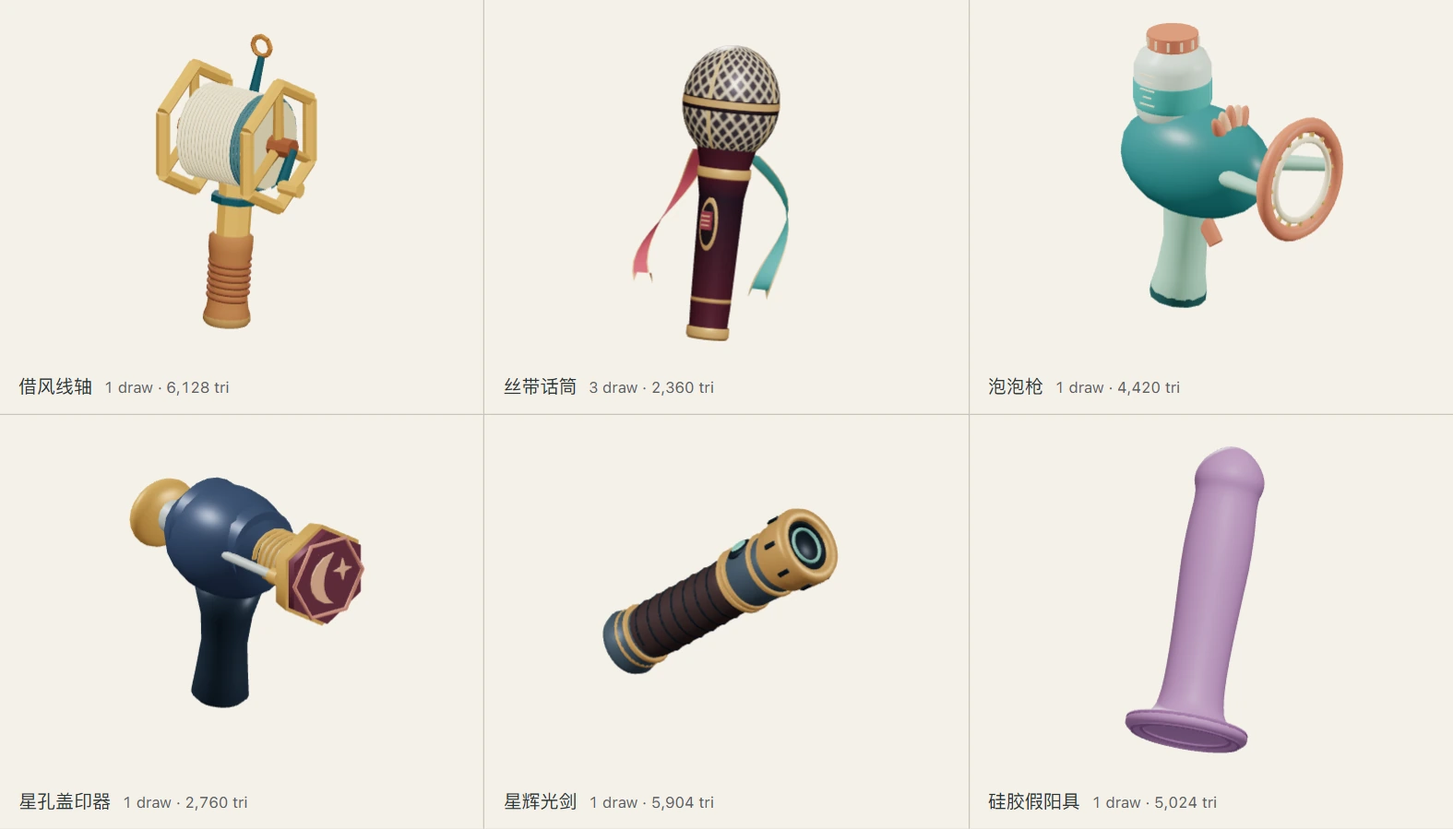
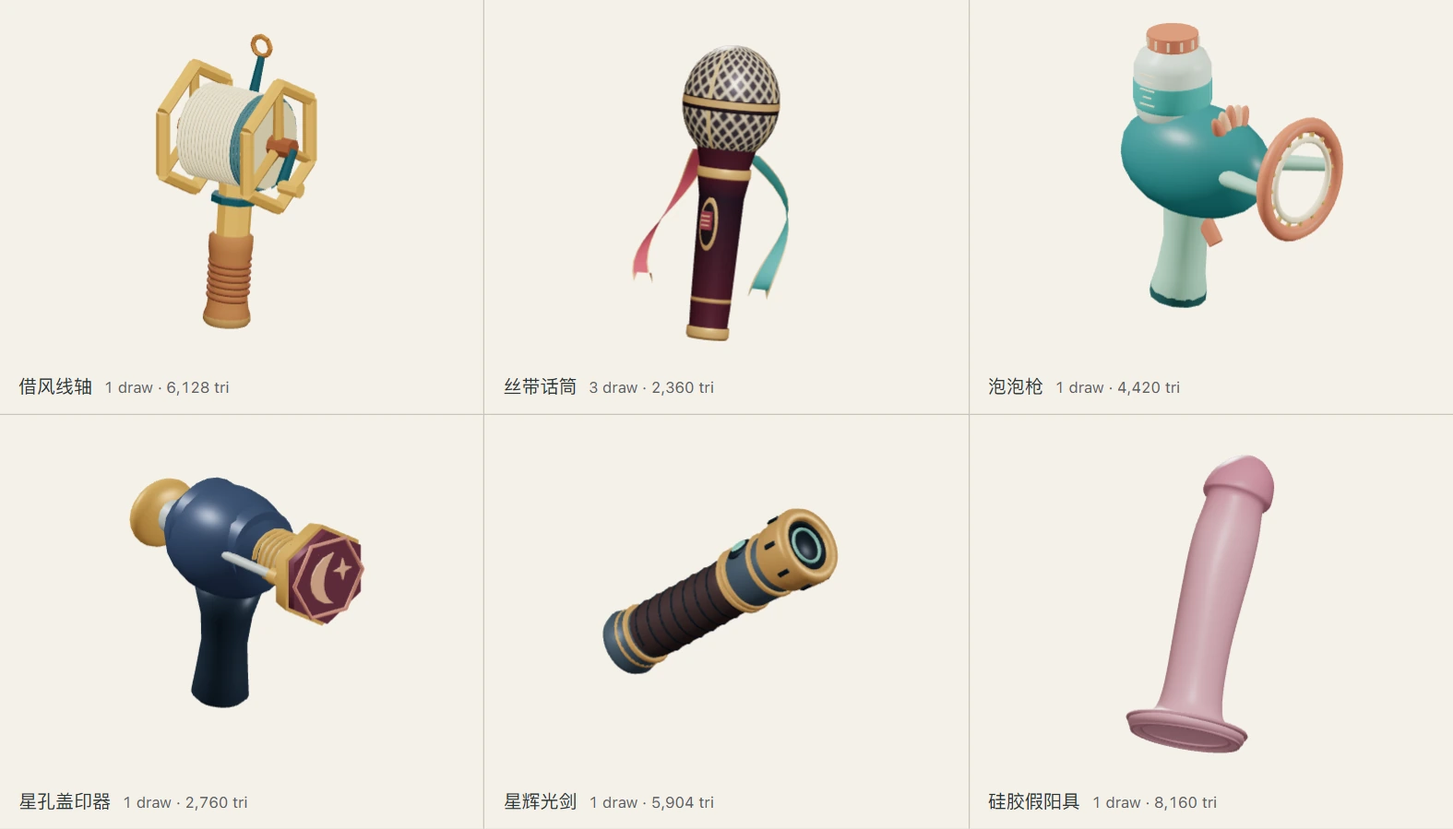
Make handheld effects portable, add a metered tip spray and stabilize the daylight sky

Changed region(s): [[0.8089, 0.5295, 0.9022, 0.7475], [0.7778, 0.8409, 0.8711, 0.9032]]

diff --git a/src/i18n/en.ts b/src/i18n/en.ts
@@ -12,14 +12,14 @@ export const en: Record<keyof ZhMessages, string> = {
   watchDetails:'Details',
   watchMenu:'Menu',watchArrange:'Arrange',watchExperiments:'Experiments',watchStart:'Choose a set, then place a character from your backpack.',watchRecall:'Press right B for controls. With hands, raise your left wrist or look down for Menu.',
   toyClubName:'Live House',toyStudioName:'Studio plinth',
-  toyDildo:'Silicone dildo',allSets:'All sets',guideDildoVr:'Hold the base to pose. No grip action needed.',guideDildoScreen:'Give it to a character and adjust the grip.',guideDildoEnd:'Stowing or changing sets returns it to the backpack.',
+  toyDildo:'Silicone dildo',allSets:'All sets',guideDildoVr:'Squeeze once for a short spray from the tip.',guideDildoScreen:'Give it to a character to pose. Spraying uses the VR grip.',guideDildoEnd:'Release and squeeze to pump again. Stowing clears the spray.',
   toyGuide:'How to use',toyCloseGuide:'Close guide',toyShelfRule:'Take or give any prop in any set.',toyShelfHome:'Active in: ',visitSaber:'To Astral Court',
   toyGuideEquip:'Trigger Left hand or Right hand in any set.',toyGuideGive:'Point at a character → Give prop → choose its hand.',toyGuideScreenGive:'Select a placed character, then choose its prop and wrist.',
   guideKiteVr:'In the meadow, squeeze the reel to change the wind.',guideKiteScreen:'Choose Left wind or Right wind in the meadow backpack.',guideKiteEnd:'The line follows the wrist. Stow the reel to end the flight.',
   guideEncoreVr:'Aim at each wing and squeeze the side grip once.',guideEncoreScreen:'In the club backpack, print each wing in turn.',guideEncoreEnd:'The first wing sets the pattern. Stowing the mic keeps the print.',
-  guideBubblesVr:'Hold grip for bubbles. Aim at a gate, release and squeeze.',guideBubblesScreen:'In the pool backpack, launch at the left or right gate.',guideBubblesEnd:'The boat starts at that gate. Stow the blower to end the trip.',
+  guideBubblesVr:'Hold grip to blow bubbles in any set.',guideBubblesScreen:'In the pool backpack, launch at the left or right gate.',guideBubblesEnd:'At the pool, aim at a gate and squeeze again to launch the boat.',
   guidePostVr:'Aim at three different stars. Release and squeeze at each.',guidePostScreen:'Stamping needs VR. On screen, give the punch to a character.',guidePostEnd:'Collect all three to reveal the card. The first sets its seal.',
-  guideSaberVr:'Squeeze to extend the blade. Release and squeeze to retract.',guideSaberScreen:'Give the saber to a character in Astral Court to light it.',guideSaberEnd:'In other sets the hilt is a posing prop; the blade stays off.',
+  guideSaberVr:'In any set, squeeze to extend. Squeeze again to retract.',guideSaberScreen:'Give the saber to a character in any set to light it.',guideSaberEnd:'Changing hands keeps the blade state; stowing retracts it.',
   actorPalmCloth:'Character palms can lift skirts (experimental; requires physics)',
   hudClinic:'Women’s hospital',clinicHall:'Waiting hall',clinicExam:'Gynecology exam room',clinicSurgery:'Operating room',clinicRestroom:'Women’s restroom',clinicEducation:'Patient education wall',
   campusWindow:'Arbor from the windows',campusHall:'School breezeway',campusGoLawn:'Cross to the meadow',campusSchool:'Look back at school',campusArbor:'Wisteria path',campusGoClass:'Cross back to class',

diff --git a/src/i18n/zh.ts b/src/i18n/zh.ts
@@ -10,14 +10,14 @@ export const zh = {
   watchDetails:'详情',
   watchMenu:'菜单',watchArrange:'摆位置',watchExperiments:'实验功能',watchStart:'先选场景，再从背包放角色。',watchRecall:'右手 B 呼出菜单；手追可抬起左腕或低头点「菜单」。',
   toyClubName:'Live House',toyStudioName:'简易地台',
-  toyDildo:'硅胶假阳具',allSets:'所有布景',guideDildoVr:'握住底座摆姿，无需按侧握键。',guideDildoScreen:'可递给角色，在角色工具里调整握姿。',guideDildoEnd:'收回或切景时，手持道具归还背包。',
+  toyDildo:'硅胶假阳具',allSets:'所有布景',guideDildoVr:'轻握侧键，尖端喷出一小股液滴。',guideDildoScreen:'可递给角色并调握姿；喷射由 VR 手柄触发。',guideDildoEnd:'松开再握可再次喷射；收回道具清除液滴。',
   toyGuide:'用法',toyCloseGuide:'关闭说明',toyShelfRule:'各景都可拿取或递给角色。',toyShelfHome:'生效地点：',visitSaber:'去星环遗庭',
   toyGuideEquip:'扳机点「左手拿」或「右手拿」，不用换景。',toyGuideGive:'扳机点角色 → 递道具 → 选角色的手。',toyGuideScreenGive:'选中已放置的角色，在「角色道具」选道具和左右手。',
   guideKiteVr:'在草坪拿起线轴，轻握侧键换风向。',guideKiteScreen:'在草坪背包点「左风签」或「右风签」放飞。',guideKiteEnd:'递给角色后线随手走；收回线轴，纸鸢落下。',
   guideEncoreVr:'瞄准舞台两翼，每翼各握一次侧键。',guideEncoreScreen:'在 Live House 的背包里依次点「染左翼」「染右翼」。',guideEncoreEnd:'先染的一侧决定幕纹；收回话筒后仍可看幕。',
-  guideBubblesVr:'按住侧握键吹泡泡；瞄准水上拱门，松开再握一次。',guideBubblesScreen:'在泳池背包选「左门发船」或「右门发船」。',guideBubblesEnd:'船从选中的一侧出发；收回泡泡枪结束航行。',
+  guideBubblesVr:'在任何布景按住侧握键都能吹泡泡。',guideBubblesScreen:'在泳池背包选「左门发船」或「右门发船」。',guideBubblesEnd:'只在泳池：瞄准拱门，松开再握一次发船。',
   guidePostVr:'对准三枚不同星印，每枚松开再握一次侧键。',guidePostScreen:'盖印需 VR 手柄；屏幕可把盖印器递给角色摆姿势。',guidePostEnd:'集齐三枚显出邮票，第一枚决定邮徽。',
-  guideSaberVr:'轻握一次侧键展开光刃，松开再握一次收起。',guideSaberScreen:'在遗庭把光剑递给角色，光刃随腕骨移动。',guideSaberEnd:'在其他布景可拿剑柄摆姿势，光刃不展开。',
+  guideSaberVr:'在任何布景轻握侧键开刃，松开再握收起。',guideSaberScreen:'在任意布景递给角色，光刃点亮并随腕骨移动。',guideSaberEnd:'递给角色或换手保留亮灭，收回道具后熄灭。',
   actorPalmCloth:'角色手掌托裙摆（试验，需开物理）',
   hudClinic:'妇科医院',clinicHall:'门诊候诊廊',clinicExam:'妇科诊室',clinicSurgery:'手术室',clinicRestroom:'女卫生间',clinicEducation:'候诊宣教墙',
   campusWindow:'从窗边望花架',campusHall:'走到连廊',campusGoLawn:'穿过连廊去草坪',campusSchool:'回望教学楼',campusArbor:'花架小径',campusGoClass:'沿连廊回教室',

diff --git a/src/mmdVrShowcase/play/workshopModels.ts b/src/mmdVrShowcase/play/workshopModels.ts
@@ -1,4 +1,5 @@
-import { CatmullRomCurve3, ExtrudeGeometry, Shape, Vector3 } from 'three';
+import { CatmullRomCurve3, Color, ExtrudeGeometry, Float32BufferAttribute, Shape, Vector3 } from 'three';
+import {centerZ} from './siliconeProfile';
 import { ball, box, coil, PaintedParts, ring, rod, turn } from './modelParts';
 
 export function makeBlower(pool:boolean) {
@@ -52,12 +53,26 @@ export function makePunch() {
 
 export function makeSilicone() {
   // Millimetre profile including a recessed underside and a broad rolled lip.
-  const sections=[[0,-40],[10,-40],[20,-42],[25,-44],[29,-45.6],[32,-45],[34,-42.8],[33.8,-40],[31,-37.8],[25,-36.8],[20,-32],[17.8,-23],[17,-9],[17.2,12],[18.3,38],[19,56],[18.6,73],[17.6,87],[17.9,93],[19.1,97],[19.3,101],[17.6,106.5],[13.7,112.2],[8.7,116.5],[4,118.6],[0,119]];
+  const sections=[[0,-40],[10,-40],[20,-42],[25,-44],[29,-45.6],[32,-45],[34,-42.8],[33.8,-40],[31,-37.8],[25,-36.8],[20,-32],[17.8,-23],[17,-9],[17.2,12],[18.3,38],[19,56],[18.6,73],[17.1,85],[16.8,89],[17.5,91],[19.7,93],[20.2,96],[19.4,102],[17.6,107],[13.7,112.2],[8.7,116.5],[4,118.6],[2.2,119],[1.35,118.4],[1.25,114],[0,113.8]];
   const spline=new CatmullRomCurve3(sections.map(([r,y])=>new Vector3(r/1000,y/1000,0)));
-  const p=new PaintedParts();p.add(turn(spline.getPoints(56).map(v=>[Math.max(0,v.x),v.y]),32),'#aa87b5');
+  const p=new PaintedParts(),g=turn(spline.getPoints(84).map(v=>[Math.max(0,v.x),v.y]),40);
+  const pos=g.getAttribute('position'),colors=new Float32Array(pos.count*3),tint=new Color(),body=new Color('#c596a3'),tip=new Color('#b87e90'),bore=new Color('#734853');
+  for(let i=0;i<pos.count;i++){
+    const x=pos.getX(i),y=pos.getY(i),z=pos.getZ(i),angle=Math.atan2(x,z),a=Math.min(1,Math.max(0,(y-.072)/.027));
+    // Oval section and a sloping moulded collar; gentle surface relief stays
+    // under a millimetre and converges before the rounded outlet lip.
+    const ridge=Math.max(0,1-Math.abs(y-.092)/.012),relief=.00065*Math.sin(3*angle+32*y)*Math.max(0,1-Math.abs(y-.042)/.054);
+    pos.setXYZ(i,x*.94+relief*Math.sin(angle),y+.0035*ridge*Math.cos(angle),z+centerZ(y)+relief*Math.cos(angle));
+    tint.copy(body).lerp(tip,a);if(y>.112&&Math.hypot(x,z)<.0017)tint.lerp(bore,.8);
+    tint.toArray(colors,3*i);
+  }
+  g.computeVertexNormals(); // Smooth the duplicate seam vertices of the lathe.
+  const normals=g.getAttribute('normal'),v=new Vector3(),w=new Vector3(),rows=85;
+  for(let i=0;i<rows;i++){const j=40*rows+i;v.fromBufferAttribute(normals,i).add(w.fromBufferAttribute(normals,j)).normalize();normals.setXYZ(i,v.x,v.y,v.z);normals.setXYZ(j,v.x,v.y,v.z);}
+  g.setAttribute('color',new Float32BufferAttribute(colors,3));p.add(g);
   // Two underside tread rings and a raised circumferential thumb grip; same
   // elastomer, a slightly darker moulding rather than hard metallic trim.
-  for(const [r,y,w] of [[.03,-.0453,.0011],[.025,-.044,.0011],[.0328,-.0395,.0013]])p.add(ring(r,w,40).rotateX(Math.PI/2).translate(0,y,0),'#926f9e');
+  for(const [r,y,w] of [[.03,-.0453,.0011],[.025,-.044,.0011],[.0328,-.0395,.0013]])p.add(ring(r,w,40).rotateX(Math.PI/2).translate(0,y,0),'#ae818e');
   return p.finish();
 }
 

diff --git a/src/mmdVrShowcase/play/stagePlay.test.ts b/src/mmdVrShowcase/play/stagePlay.test.ts
@@ -1,6 +1,6 @@
 import { beforeEach, describe, expect, it, vi } from 'vitest';
 import { Vector3 } from 'three';
-import { canUseGrip, giveScreenToy, gripLatch, useStagePlay } from './stagePlay';
+import { canUseGrip, giveScreenToy, gripLatch, handleGripStart, useStagePlay } from './stagePlay';
 import { shelfToys, STORIES, TOYS, toyLabel } from './propCatalog';
 import { markAt, POST_MARKS, stamp, useLunarCard } from './lunarCard';
 import { saberLit } from './saberLight';
@@ -25,22 +25,25 @@ describe('shared prop catalog and ownership',()=>{
   });
   it('uses the actual controller, room and current owner; a wrist transfer cannot fire an old grip',()=>{
     get().equip('saber','right');expect(canUseGrip(get(),'saber','left','astralCourt')).toBe(false);
-    expect(canUseGrip(get(),'saber','right','chapel')).toBe(false);
+    expect(canUseGrip(get(),'saber','right','chapel')).toBe(true);
     expect(canUseGrip(get(),'saber','right','astralCourt')).toBe(true);
     TOYS.saber.onGrip!(new Vector3(),forward);get().give('actor','left');get().give('actor','right');
     expect(canUseGrip(get(),'saber','right','astralCourt')).toBe(false);expect(saberLit()).toBe(true);
     get().equip('saber','right');expect(saberLit()).toBe(false);
     TOYS.saber.onGrip!(new Vector3(),forward);get().equip('post','right');expect(saberLit()).toBe(false);
   });
-  it('lights only a freshly equipped screen saber at home; switching wrists preserves the blade',()=>{
-    giveScreenToy('actor','saber','left','chapel');expect(saberLit()).toBe(false);
+  it('lights a freshly equipped screen saber in any set; switching wrists preserves the blade',()=>{
+    giveScreenToy('actor','saber','left','chapel');expect(saberLit()).toBe(true);
     get().reset();giveScreenToy('actor','saber','left','astralCourt');expect(saberLit()).toBe(true);
     giveScreenToy('actor','saber','right','astralCourt');expect(saberLit()).toBe(true);
     get().stow();expect(saberLit()).toBe(false);
   });
   it('keeps the in-flight ferry on handoff, ends it on replacement, and leaves no kite after a zone switch',()=>{
-    get().equip('bubbles','left');TOYS.bubbles.onGrip!(new Vector3(0,1,2),forward);expect(advanceFerry(0)).toBeNull();
-    TOYS.bubbles.onGrip!(new Vector3(-GATE_X,GATE_Y,2),forward);expect(advanceFerry(.5)?.side).toBe('left');
+    get().equip('bubbles','left');expect(canUseGrip(get(),'bubbles','left','clinic')).toBe(true);
+    const aimed=new Vector3(-GATE_X,GATE_Y,2);
+    handleGripStart('bubbles','clinic',aimed,forward);expect(advanceFerry(0)).toBeNull();
+    handleGripStart('bubbles','pool',new Vector3(0,1,2),forward);expect(advanceFerry(0)).toBeNull();
+    handleGripStart('bubbles','pool',aimed,forward);expect(advanceFerry(.5)?.side).toBe('left');
     get().give('actor','right');expect(advanceFerry(0)?.elapsed).toBe(.5);
     get().equip('kite','right');expect(advanceFerry(0)).toBeNull();
     STORIES.lawn.cue('right');TOYS.kite.onGrip!(new Vector3(),forward);get().give('actor','left');

diff --git a/src/mmdVrShowcase/play/heldEffects.tsx b/src/mmdVrShowcase/play/heldEffects.tsx
@@ -1,5 +1,5 @@
 import { useImperativeHandle, useMemo, useRef } from 'react';
-import { DynamicDrawUsage, InstancedMesh, Mesh, Object3D } from 'three';
+import { DynamicDrawUsage, InstancedMesh, Mesh, Object3D, Vector3 } from 'three';
 import { markAt, POST_MARKS, POST_Z, stamp, useLunarCard } from './lunarCard';
 import type { FrameEffectProps, GripFrame } from './propView';
 
@@ -20,6 +20,34 @@ export function StampAim({ref}:FrameEffectProps) {
 }
 
 const CAP=24;
+/** A metered pump: one short pulse per squeeze, in world space. Positions,
+ * velocity and scratch are reused. Drops in flight never follow the hand. */
+export function LiquidSpray({ref}:FrameEffectProps){
+  const mesh=useRef<InstancedMesh>(null);
+  const s=useMemo(()=>({age:new Float32Array(CAP).fill(-1),path:new Float32Array(CAP*6),next:0,left:0,until:0,
+    dot:new Object3D(),v:new Vector3(),up:new Vector3(0,1,0)}),[]);
+  useImperativeHandle(ref,()=>({at,dir,usable,action,dt}:GripFrame)=>{
+    const batch=mesh.current!;if(action==='start'){s.left=10;s.until=0;}if(!usable)s.left=0;
+    s.until-=dt;
+    while(s.left>0&&s.until<=0){
+      const i=s.next++%CAP,k=i*6,phase=10-s.left;const speed=1.5+.65*Math.sin(Math.PI*(phase+.5)/10);
+      s.age[i]=0;s.path[k]=at.x;s.path[k+1]=at.y;s.path[k+2]=at.z;
+      s.path[k+3]=dir.x*speed+.024*Math.sin(i*4);s.path[k+4]=dir.y*speed;s.path[k+5]=dir.z*speed+.019*Math.cos(i*3);
+      s.left--;s.until+=.024;
+    }
+    let count=0;for(let i=0;i<CAP;i++){if(s.age[i]<0)continue;
+      const k=6*i,t=s.age[i],vy=s.path[k+4],y=s.path[k+1]+vy*t-3.5*t*t;
+      if(t>.76||y<.01){s.age[i]=-1;continue;}
+      s.dot.position.set(s.path[k]+s.path[k+3]*t,y,s.path[k+2]+s.path[k+5]*t);
+      s.dot.quaternion.setFromUnitVectors(s.up,s.v.set(s.path[k+3],vy-7*t,s.path[k+5]).normalize());
+      const radius=.0031*(1-.35*t);s.dot.scale.set(radius,.017*(1-.85*t),radius);s.dot.updateMatrix();batch.setMatrixAt(count++,s.dot.matrix);s.age[i]+=dt;
+    }
+    if(count||batch.count){batch.count=count;batch.instanceMatrix.needsUpdate=true;}
+  },[s]);
+  return <instancedMesh name="play:liquid-spray" ref={mesh} args={[undefined,undefined,CAP]} count={0} frustumCulled={false} onUpdate={m=>m.instanceMatrix.setUsage(DynamicDrawUsage)}>
+    <sphereGeometry args={[1,8,6]}/><meshStandardMaterial color="#e3f3fa" roughness={.21} transparent opacity={.83} depthWrite={false}/>
+  </instancedMesh>;
+}
 export function BubbleStream({ref}:FrameEffectProps) {
   const mesh=useRef<InstancedMesh>(null);
   const s=useMemo(()=>({dot:new Object3D(), age:new Float32Array(CAP).fill(-1),paths:new Float32Array(CAP*6),next:0,cooldown:0}),[]);

diff --git a/src/mmdVrShowcase/scenery/DaylightSets.tsx b/src/mmdVrShowcase/scenery/DaylightSets.tsx
@@ -1,22 +1,22 @@
 import { useMemo } from 'react';
 import { BackSide, Color, Vector3 } from 'three';
+import {useBakedSurface} from './useBakedSurface';
+import cloudUrl from './day-clouds.webp';
 import type { Part } from './SceneryBatch';
 
 type V = Part['p'];
 
 export function DaySky({ sun, warm }: { sun: V; warm: boolean }) {
+  const clouds=useBakedSurface(cloudUrl,'mask');
   const uniforms = useMemo(() => ({ sun: { value: new Vector3(...sun).normalize() },
-    zenith: { value: new Color(warm ? "#6486ac" : "#417fba") }, horizon: { value: new Color(warm ? "#f3d9b5" : "#c9e3ec") } }), [sun, warm]);
+    clouds:{value:clouds},hasClouds:{value:!!clouds},zenith: { value: new Color(warm ? "#6486ac" : "#417fba") }, horizon: { value: new Color(warm ? "#f3d9b5" : "#c9e3ec") } }), [sun, warm,clouds]);
   return <mesh name="day-sky" renderOrder={-100} frustumCulled={false} raycast={() => null}>
     <sphereGeometry args={[1, 36, 18]} />
-    <shaderMaterial side={BackSide} depthWrite={false} uniforms={uniforms} vertexShader={`varying vec3 dir;
-      void main(){dir=position; vec4 clip=projectionMatrix*vec4(mat3(viewMatrix)*position,1.);gl_Position=clip.xyww;}`}
-      fragmentShader={`varying vec3 dir; uniform vec3 sun, zenith, horizon;
-      float hash(vec2 p){return fract(sin(dot(p,vec2(41.7,78.31)))*13758.5453);}
-      float noise(vec2 p){vec2 i=floor(p),f=fract(p); f=f*f*(3.-2.*f);return mix(mix(hash(i),hash(i+vec2(1,0)),f.x),mix(hash(i+vec2(0,1)),hash(i+1.),f.x),f.y);}
+    <shaderMaterial side={BackSide} depthTest={false} depthWrite={false} uniforms={uniforms} vertexShader={`varying vec3 dir; varying vec2 cloudUv;
+      void main(){dir=position; cloudUv=uv;vec4 clip=projectionMatrix*vec4(mat3(viewMatrix)*position,1.);gl_Position=vec4(clip.xy,0.,clip.w);}`}
+      fragmentShader={`varying vec3 dir;varying vec2 cloudUv; uniform vec3 sun, zenith, horizon; uniform sampler2D clouds;uniform bool hasClouds;
       void main(){vec3 d=normalize(dir);float h=max(d.y,0.);vec3 c=mix(horizon,zenith,pow(h,.48));
-        vec2 plane=d.xz/max(.12,h+.04);vec2 p=plane*vec2(2.4,4.1);float n=noise(p)*.6+noise(2.03*p)*.28+noise(4.23*p)*.12;
-        float cloud=smoothstep(.56,.75,n)*smoothstep(.015,.22,h);c=mix(c,vec3(.92,.94,.94),.78*cloud);
+        float cloud=hasClouds?texture2D(clouds,cloudUv).r:0.;c=mix(c,vec3(.92,.94,.94),.78*cloud);
         float a=clamp(dot(d,sun),0.,1.);float disk=1.-smoothstep(.007,.013,length(d-sun));
         c+=vec3(1.,.78,.48)*(.23*pow(a,30.)+.45*pow(a,330.)+1.8*disk)*(1.-.72*cloud);
         gl_FragColor=vec4(c,1.);

diff --git a/src/mmdVrShowcase/play/propCatalog.ts b/src/mmdVrShowcase/play/propCatalog.ts
@@ -11,11 +11,13 @@ export type Hand = 'left' | 'right';
 type Story = { name:Key; help:Key; left:Key; right:Key; cue:(side:Hand)=>void };
 type Definition = {
   label:Key; homeLabel:Key; homeName?:Key;
+  /** The handheld effect can travel even when a station stays in its own set. */
+  portable?:boolean;
   guide:{vr:Key; screen:Key; end:Key};
   // Type-only link. Import the actual components only on the rendering side.
   view:keyof typeof import('./propViews');
   onGrip?:(at:Vector3, dir:Vector3)=>void;
-  onEquip?:()=>void; onScreenEquipAtHome?:()=>void; onStow?:()=>void; onLeave?:()=>void;
+  onEquip?:()=>void; onScreenEquip?:()=>void; onStow?:()=>void; onLeave?:()=>void;
   story?:Story;
 } & ({home:SceneryId; visit:Key} | {home:null; visit:null});
 
@@ -33,7 +35,7 @@ const catalog = {
     onGrip:(at,dir)=>{const side=aimEncore(at,dir); if(side)dyeEncore(side);}, onLeave:resetEncore,
   },
   bubbles: {
-    label:'toyBubbles', home:'pool', homeLabel:'hudPool', homeName:'toyShell', visit:'visitFerry', view:'shellBlower',
+    label:'toyBubbles', portable:true, home:'pool', homeLabel:'allSets', homeName:'toyShell', visit:'visitFerry', view:'shellBlower',
     guide:{vr:'guideBubblesVr', screen:'guideBubblesScreen', end:'guideBubblesEnd'},
     story:{name:'storyFerry', help:'storyFerryHelp', left:'storyFerryLeft', right:'storyFerryRight', cue:launchFerry},
     onGrip:(at,dir)=>{const side=aimFerry(at,dir); if(side)launchFerry(side,at);}, onStow:resetFerry,
@@ -43,12 +45,12 @@ const catalog = {
     guide:{vr:'guidePostVr', screen:'guidePostScreen', end:'guidePostEnd'}, onLeave:clearCard,
   },
   saber: {
-    label:'toySaber', home:'astralCourt', homeLabel:'hudAstralCourt', visit:'visitSaber', view:'astralHilt',
+    label:'toySaber', portable:true, home:null, homeLabel:'allSets', visit:null, view:'astralHilt',
     guide:{vr:'guideSaberVr', screen:'guideSaberScreen', end:'guideSaberEnd'},
-    onGrip:toggleBlade, onEquip:retractBlade, onScreenEquipAtHome:toggleBlade, onStow:retractBlade,
+    onGrip:toggleBlade, onEquip:retractBlade, onScreenEquip:toggleBlade, onStow:retractBlade,
   },
   dildo: {
-    label:'toyDildo', home:null, homeLabel:'allSets', visit:null, view:'silicone',
+    label:'toyDildo', portable:true, home:null, homeLabel:'allSets', visit:null, view:'silicone',
     guide:{vr:'guideDildoVr', screen:'guideDildoScreen', end:'guideDildoEnd'},
   },
 } as const satisfies Record<string,Definition>;

diff --git a/src/mmdVrShowcase/play/HeldPlay.tsx b/src/mmdVrShowcase/play/HeldPlay.tsx
@@ -5,7 +5,7 @@ import { useBackpack } from '../backpack';
 import { useHudWorldInput } from '../components/hudWorldInput';
 import { useMmdVrStore } from '../mmdVrStore';
 import { TOYS, type Toy, type Hand } from './propCatalog';
-import { canUseGrip, gripLatch, useStagePlay } from './stagePlay';
+import { canUseGrip, gripLatch, handleGripStart, useStagePlay } from './stagePlay';
 import type { GripFrame } from './propView';
 import * as views from './propViews';
 import { StoryStations } from './StoryStations';
@@ -16,7 +16,7 @@ export function PlayPiece({toy}:{toy:Toy}) {
 }
 
 function InHand({toy,hand}:{toy:Toy;hand:Hand}) {
-  const item=TOYS[toy], {HeldEffect}=views[item.view];
+  const item=TOYS[toy], {HeldEffect,outlet}=views[item.view];
   const body=useRef<Group>(null), effect=useRef<((frame:GripFrame)=>void)|null>(null);
   const scratch=useMemo(()=>({latch:gripLatch(),pose:new Matrix4(),ray:new Matrix4(),source:null as XRInputSource|null,
     frame:{at:new Vector3(),dir:new Vector3(),action:'off',dt:0,usable:false} as GripFrame}),[]);
@@ -41,8 +41,9 @@ function InHand({toy,hand}:{toy:Toy;hand:Hand}) {
       s.pose.fromArray(grip.transform.matrix);s.ray.fromArray(ray.transform.matrix);
       const origin=gl.xr.getCamera().parent;if(origin){origin.updateWorldMatrix(true,false);s.pose.premultiply(origin.matrixWorld);s.ray.premultiply(origin.matrixWorld);}
       prop.position.setFromMatrixPosition(s.pose);prop.quaternion.setFromRotationMatrix(s.ray);
-      f.dir.set(0,0,-1).applyQuaternion(prop.quaternion);f.at.set(0,.025,-.177).applyQuaternion(prop.quaternion).add(prop.position);
-      if(f.action==='start')item.onGrip?.(f.at,f.dir);
+      if(outlet){f.dir.fromArray(outlet.direction);f.at.fromArray(outlet.position);}else{f.dir.set(0,0,-1);f.at.set(0,.025,-.177);}
+      f.dir.applyQuaternion(prop.quaternion);f.at.applyQuaternion(prop.quaternion).add(prop.position);
+      if(f.action==='start')handleGripStart(toy,stage.prefs.scenery,f.at,f.dir);
     }
     effect.current?.(f);
   });

diff --git a/src/mmdVrShowcase/play/stagePlay.ts b/src/mmdVrShowcase/play/stagePlay.ts
@@ -1,4 +1,5 @@
 import { create } from 'zustand';
+import type {Vector3} from 'three';
 import type { SceneryId } from '../scenery/catalog';
 import { TOYS, shelfToys, type Hand, type Toy } from './propCatalog';
 
@@ -8,7 +9,12 @@ export type CharacterToy = { assetId:string; toy:Toy; hand:Hand; tilt:number; in
 type Owners = { held:{toy:Toy; hand:Hand}|null; character:CharacterToy|null };
 export const ownerOf = (s:Owners) => s.held ?? s.character;
 export const canUseGrip = (s:Owners,toy:Toy,hand:Hand,room:SceneryId) =>
-  s.held?.toy===toy && s.held.hand===hand && TOYS[toy].home===room;
+  s.held?.toy===toy && s.held.hand===hand && (TOYS[toy].portable===true || TOYS[toy].home===room);
+/** Grip starts the portable prop, but a room-specific interaction (e.g. ferry
+ * gate) must never run against coincident coordinates in another set. */
+export function handleGripStart(toy:Toy,room:SceneryId,at:Vector3,dir:Vector3){
+  const item=TOYS[toy];if(item.home===null || item.home===room)item.onGrip?.(at,dir);
+}
 export const canGiveTo = (actor:{visible:boolean; wrists?:Partial<Record<Hand,boolean>>}|undefined, hand:Hand) =>
   !!actor?.visible && !!actor.wrists?.[hand];
 
@@ -46,7 +52,7 @@ export function giveScreenToy(assetId:string,toy:Toy,hand:Hand,room:SceneryId) {
   const play=useStagePlay.getState();
   if(play.held?.toy!==toy && !(play.character?.assetId===assetId && play.character.toy===toy)) {
     play.equip(toy,hand);
-    if(TOYS[toy].home===room)TOYS[toy].onScreenEquipAtHome?.();
+    if(TOYS[toy].portable || TOYS[toy].home===room)TOYS[toy].onScreenEquip?.();
   }
   play.give(assetId,hand);
 }

diff --git a/src/mmdVrShowcase/play/propViews.tsx b/src/mmdVrShowcase/play/propViews.tsx
@@ -6,7 +6,8 @@ import { EncoreMic } from './encore/EncoreMic';
 import { EncoreStation } from './encore/EncoreStation';
 import { FerryStation } from './ferry/FerryStation';
 import { KiteReel, MeadowStation } from './kite/KiteStation';
-import { BubbleStream, StampAim } from './heldEffects';
+import { BubbleStream, LiquidSpray, StampAim } from './heldEffects';
+import {siliconeOutlet} from './siliconeProfile';
 import { BubblePiece, SiliconePiece, StampPiece } from './simplePieces';
 import type { PropView } from './propView';
 
@@ -15,4 +16,4 @@ export const ribbonMic:PropView = {Piece:EncoreMic, Station:EncoreStation};
 export const shellBlower:PropView = {Piece:BubblePiece, HeldEffect:BubbleStream, Station:FerryStation};
 export const lunarPunch:PropView = {Piece:StampPiece, HeldEffect:StampAim, Station:MoonPost};
 export const astralHilt:PropView = {Piece:AstralSaber};
-export const silicone:PropView = {Piece:SiliconePiece};
+export const silicone:PropView = {Piece:SiliconePiece,HeldEffect:LiquidSpray,outlet:siliconeOutlet};

diff --git a/src/mmdVrShowcase/scenery/useBakedSurface.ts b/src/mmdVrShowcase/scenery/useBakedSurface.ts
@@ -1,14 +1,14 @@
 import { useEffect, useState } from 'react';
-import { SRGBColorSpace, TextureLoader, type Texture } from 'three';
+import { NoColorSpace, RepeatWrapping, SRGBColorSpace, TextureLoader, type Texture } from 'three';
 
 /** Only the mounted room requests its print. A late decoder must not attach
  * a texture to the next room, including on StrictMode's second mount. */
-export function useBakedSurface(url:string) {
+export function useBakedSurface(url:string,kind:'print'|'mask'='print') {
   const [map,setMap]=useState<Texture|null>(null);
   useEffect(()=>{
     let live=true;
-    const texture=new TextureLoader().load(url,t=>{if(live){t.colorSpace=SRGBColorSpace;t.anisotropy=4;setMap(t);}});
+    const texture=new TextureLoader().load(url,t=>{if(live){t.colorSpace=kind==='print'?SRGBColorSpace:NoColorSpace;if(kind==='mask')t.wrapS=RepeatWrapping;t.anisotropy=4;setMap(t);}});
     return ()=>{live=false;texture.dispose();};
-  },[url]);
+  },[url,kind]);
   return map;
 }

diff --git a/src/mmdVrShowcase/play/simplePieces.tsx b/src/mmdVrShowcase/play/simplePieces.tsx
@@ -1,10 +1,11 @@
 import { useEffect, useMemo } from 'react';
 import { useMmdVrStore } from '../mmdVrStore';
 import { makeBlower, makePunch, makeSilicone } from './workshopModels';
+import {siliconeMount,siliconeTilt} from './siliconeProfile';
 
 export function SiliconePiece(){
   const geometry=useMemo(makeSilicone,[]);useEffect(()=>()=>geometry.dispose(),[geometry]);
-  return <mesh name="play:piece:dildo" geometry={geometry} rotation-x={-.38} position={[0,.01,-.035]}><meshStandardMaterial vertexColors roughness={.52}/></mesh>;
+  return <mesh name="play:piece:dildo" geometry={geometry} rotation-x={siliconeTilt} position={siliconeMount}><meshStandardMaterial vertexColors roughness={.42}/></mesh>;
 }
 export function StampPiece(){
   const geometry=useMemo(makePunch,[]);useEffect(()=>()=>geometry.dispose(),[geometry]);
